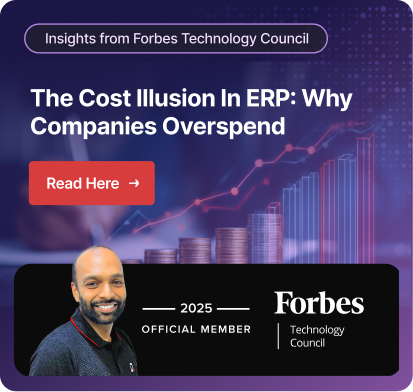
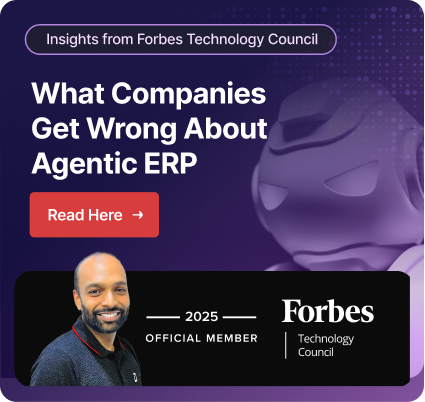
fix: Update Forbes article links in TimerModal and blog post

diff --git a/pages/blog/[slug].js b/pages/blog/[slug].js
@@ -511,7 +511,7 @@ function Post({ blogs, blogcat, authordetials, author }) {
                           display: "block",
                         }}
                         rel="nofollow"
-                        href="https://www.forbes.com/councils/forbestechcouncil/2026/04/21/the-cost-illusion-in-erp-why-companies-overspend/"
+                        href="https://www.forbes.com/councils/forbestechcouncil/2026/06/01/what-companies-get-wrong-about-agentic-erp/"
                         target="_blank"
                       >
                         <Image

diff --git a/components/TimerModal.js b/components/TimerModal.js
@@ -51,7 +51,7 @@ const TimerModal = () => {
               </button>
 
               {/* <a 
-                href="https://www.forbes.com/councils/forbestechcouncil/2026/04/21/the-cost-illusion-in-erp-why-companies-overspend/" 
+                href="https://www.forbes.com/councils/forbestechcouncil/2026/06/01/what-companies-get-wrong-about-agentic-erp/" 
                 target="_blank" 
                 rel="nofollow"
                 onClick={handleCloseModal}
